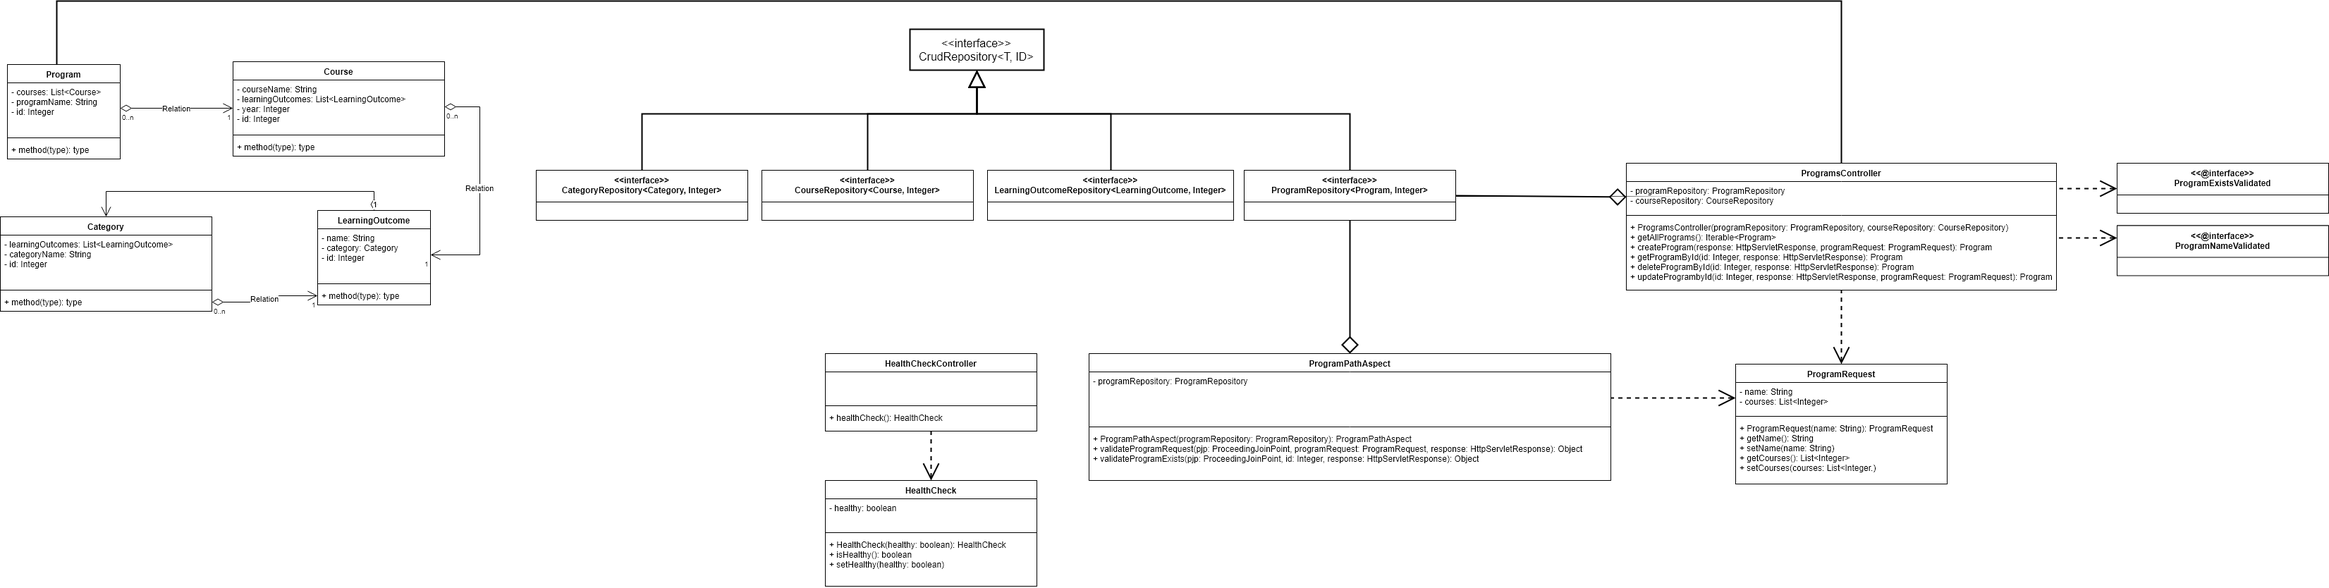
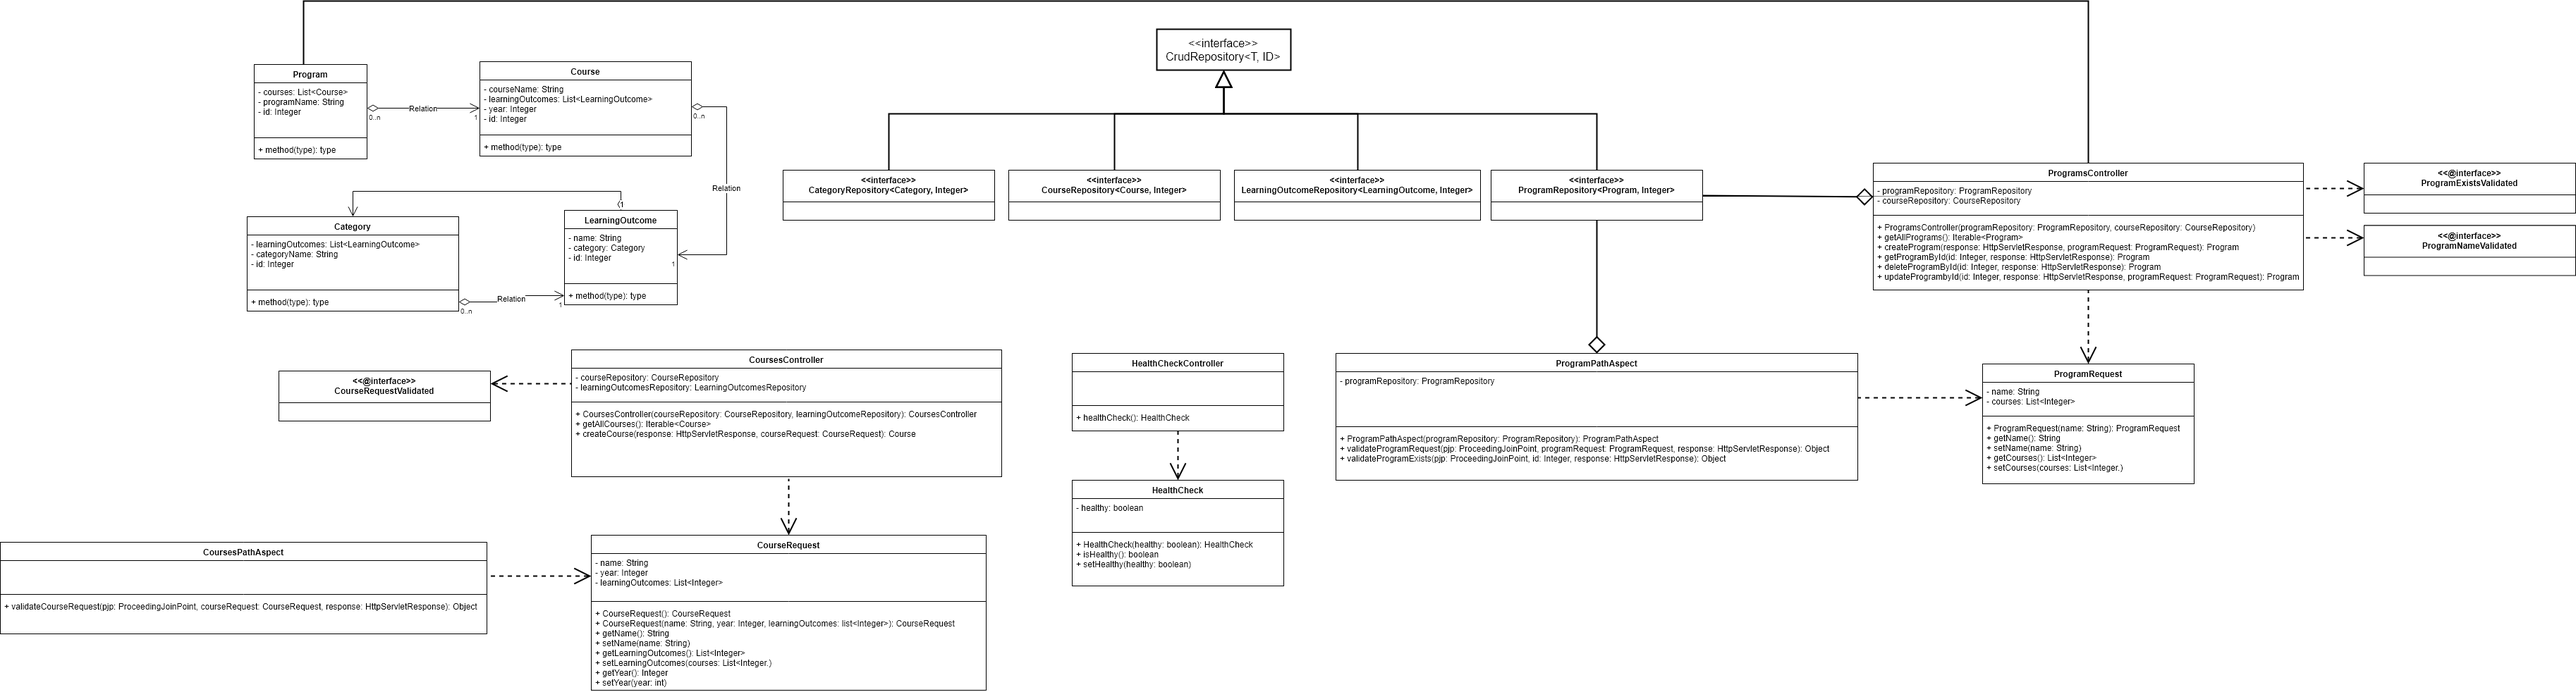
Milestone 1  - Update README.md with progress  - Update UML with progress

diff --git a/README.md b/README.md
@@ -12,14 +12,14 @@ A user can track, edit, and update learning outcomes for different programs. Eac
 ## Application Endpoints
 Base URL: [https://sysc4806-red-squadron-project.herokuapp.com](https://sysc4806-red-squadron-project.herokuapp.com)
 
-|Request Method|Endpoint|
+|Request Method|Endpoint|Created|
 |-------------|-------------|
-|GET	| /programs | :heavy_check_mark:
-|POST	|	/programs	| :heavy_check_mark:
-|GET	|	/programs/id	| :heavy_check_mark:
-|PATCH	|	/programs/id	| :heavy_check_mark:
-|DELETE	|	/programs/id	| :heavy_check_mark:
-|POST	|	/courses | 
+|GET	| /programs |
+|POST	|	/programs	|
+|GET	|	/programs/id	|
+|PATCH	|	/programs/id	|
+|DELETE	|	/programs/id	|
+|POST	|	/courses |
 |GET	| 	/courses	|
 |GET	| 	/courses/id	|
 |PATCH	|	/courses/id	|
@@ -46,7 +46,7 @@ To be completed this iteration (03/08/2018):
 * Commit initial UML diagram :pencil2:
 * Create model objects for shared use and modification
 * Create Endpoints under "/programs" with unit and integration tests :heavy_check_mark:
-* Create Endpoints under "/courses" with unit and integration tests (create course)
+* Create Endpoints under "/courses" with unit and integration tests (create course & get courses) :heavy_check_mark:
 * Create Endpoints under "/categories" with unit and integration tests
 * Create UI page to list all programs with link to view a specific program (display some data, TA approved)
 
